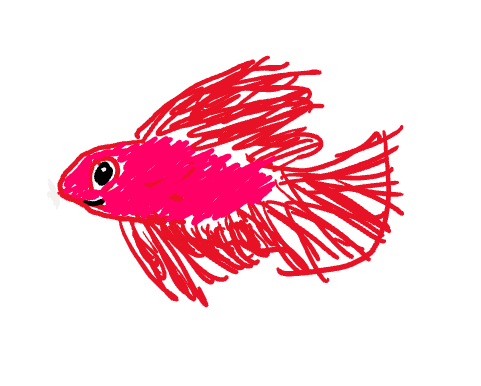
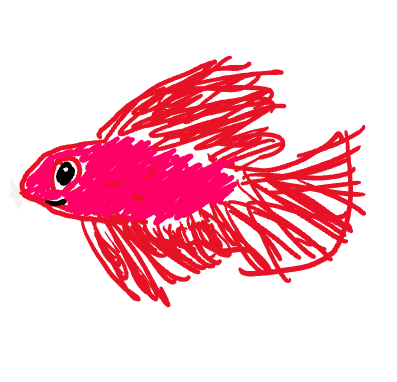
Add result fish types

Changed region(s): [[0.0302, 0.144, 0.937, 0.8063], [0.9068, 0.3168, 0.937, 0.3455]]

diff --git a/src/components/FishPreviewSliders.js b/src/components/FishPreviewSliders.js
@@ -1,7 +1,6 @@
 import React, { useState, useEffect } from "react";
-import { CalculatePlayerScore } from "../backend/PlayerStats.js";
 
-import { shark, Image } from "../index.js";
+import { bettafish, pufferfish, unicornfish, clownfish, Image } from "../index.js";
 
 // lets people see the 'answers' to the game
 // if they move the sliders, they can see the different fish
@@ -13,18 +12,16 @@ const FishPreviewSliders = () => {
     const [socialPreview, setSocialPreview] = useState(50);
     const [extracurricularsPreview, setExtracurricularsPreview] = useState(50);
     const [fishName, setFishName] = useState("");
+    const [fishIdx, setFishIdx] = useState(0);
 
-    // TODO display something other than sharks
-    const [dummyScore, setDummyScore] = useState(200);
-    const dummyFishTypes = ["Grandpa Shark", "Grandma Shark", "Daddy Shark", "Mommy Shark", "Baby Shark"];
-
-    // TODO calculate your score with something other than a random number generator
+    const fishTypes = ["Betta fish", "Pufferfish", "Clownfish", "Unicorn fish"];
+    const fishImages = [bettafish, pufferfish, clownfish, unicornfish];
+    
     useEffect(() => {
-        var dummyScoreCalculator = academicPreview + healthPreview + socialPreview + extracurricularsPreview;
-        setDummyScore(dummyScoreCalculator);
-        var dummyFishName = dummyFishTypes[Math.floor(Math.random() * dummyFishTypes.length)]
+        var categories = [academicPreview, healthPreview, socialPreview, extracurricularsPreview];
+         setFishIdx(categories.indexOf(Math.max(...categories)));
 
-        setFishName(dummyFishName);
+        setFishName(fishTypes[fishIdx]);
     }, [academicPreview, healthPreview, socialPreview, extracurricularsPreview])
 
     return (
@@ -45,10 +42,10 @@ const FishPreviewSliders = () => {
                     <p class="is-size-6 ml-4">Extracurriculars</p>
                     <input class="slider is-small is-circle ml-4" defaultValue={extracurricularsPreview} onMouseUp={e => setExtracurricularsPreview(parseInt(e.target.value))} step="1" min="0" max="100" type="range"></input>
                 </div>
-                <div class="column is-narrow">
-                    <Image imgLink={shark} />
-                    <p class="is-size-4 is-spark-font">{fishName}</p>
-                    <p class="m-3 is-size-7">Doo doo doo doo doo doo</p>
+                <div class="column is-one-third">
+                    <Image imgLink={fishImages[fishIdx]} />
+                    <p class="is-size-4 is-spark-font">{fishTypes[fishIdx]}</p>
+                    {/* <p class="m-3 is-size-7">fishPun[fishIdx]</p> */}
                 </div>
             </div>
         </div>

diff --git a/src/components/FishResult.js b/src/components/FishResult.js
@@ -1,21 +1,32 @@
-import React from "react";
+import React, {useEffect, useState} from "react";
+import { CalculatePlayerScore } from "../backend/PlayerStats.js";
 
-import { shark, Image } from "../index.js";
+import { bettafish, pufferfish, unicornfish, clownfish, Image, progressBar } from "../index.js";
 
 const FishResult = () => {
 
-    // TODO get real results
+    const [fishIdx, setFishIdx] = useState(0);
+    const [score, setScore] = useState({});
+    const fishTypes = ["Betta fish", "Pufferfish", "Clownfish", "Unicorn fish"];
+    const fishImages = [bettafish, pufferfish, clownfish, unicornfish];
+
+    useEffect(() => {
+        setScore(CalculatePlayerScore());
+        const categories = [score.academic, score.health, score.social, score.ecr];
+        setFishIdx(categories.indexOf(Math.max(...categories)));
+    }, [score]);
+
+    
     return (
         <div class="card mb-6 is-centered">
             <div class="card-content columns">
                 <div class="column is-half">
-                <p>(Insert Matt's</p>
-                <p>score bars here)</p>
+                <progressBar />
                 </div>
-                <div class="column is-narrow">
-                    <Image imgLink={shark} />
-                    <p class="is-size-4 is-spark-font">baby shark</p>
-                    <p class="m-3 is-size-7">Doo doo doo doo doo doo</p>
+                <div class="column is-one-third">
+                    <Image imgLink={fishImages[fishIdx]} />
+                    <p class="is-size-4 is-spark-font">{fishTypes[fishIdx]}</p>
+                    <p class="m-3 is-size-7">{/*fish pun*/}</p>
                 </div>
             </div>
         </div>

diff --git a/src/index.js b/src/index.js
@@ -37,7 +37,10 @@ import StoryFrame from "./backend/StoryFrame";
 import brokenImage from "./images/broken-image.png";
 import sparkLogoSmall from "./images/SparkLogoSmall.png";
 import sparkLogoBlackText from "./images/SparkLogoBlackText.png";
-import shark from "./images/demoShark.png";
+import bettafish from "./images/bettaFish.png";
+import pufferfish from "./images/pufferFish.png";
+import unicornfish from "./images/unicornFish.png";
+import clownfish from "./images/clownfish.png";
 
 ReactDOM.render(
   <React.StrictMode>
@@ -68,7 +71,10 @@ export {
   Subscribe,
   StoryFrame,
   brokenImage,
-  shark,
+  bettafish,
+  clownfish,
+  pufferfish,
+  unicornfish,
   sparkLogoSmall,
   sparkLogoBlackText,
   progressBar

diff --git a/src/pages/StoryPage.js b/src/pages/StoryPage.js
@@ -1,6 +1,5 @@
 import React, { useEffect, useState, useRef } from "react";
 import { RequestFirstStoryFrame, RequestNextStoryFrame } from "../backend/StoryController.js";
-
 import AnimatedImage from "../components/AnimatedImage.js";
 import { Image, StoryChoice, StoryPrompt, progressBar} from "../index.js";
 function format () {

diff --git a/src/components/progressBar.js b/src/components/progressBar.js
@@ -1,6 +1,6 @@
 import React from "react";
 
-const progressBar = () => {
+const ProgressBar = () => {
   
     return (
 
@@ -25,4 +25,4 @@ const progressBar = () => {
     );
   };
   
-  export default progressBar;
+  export default ProgressBar;
